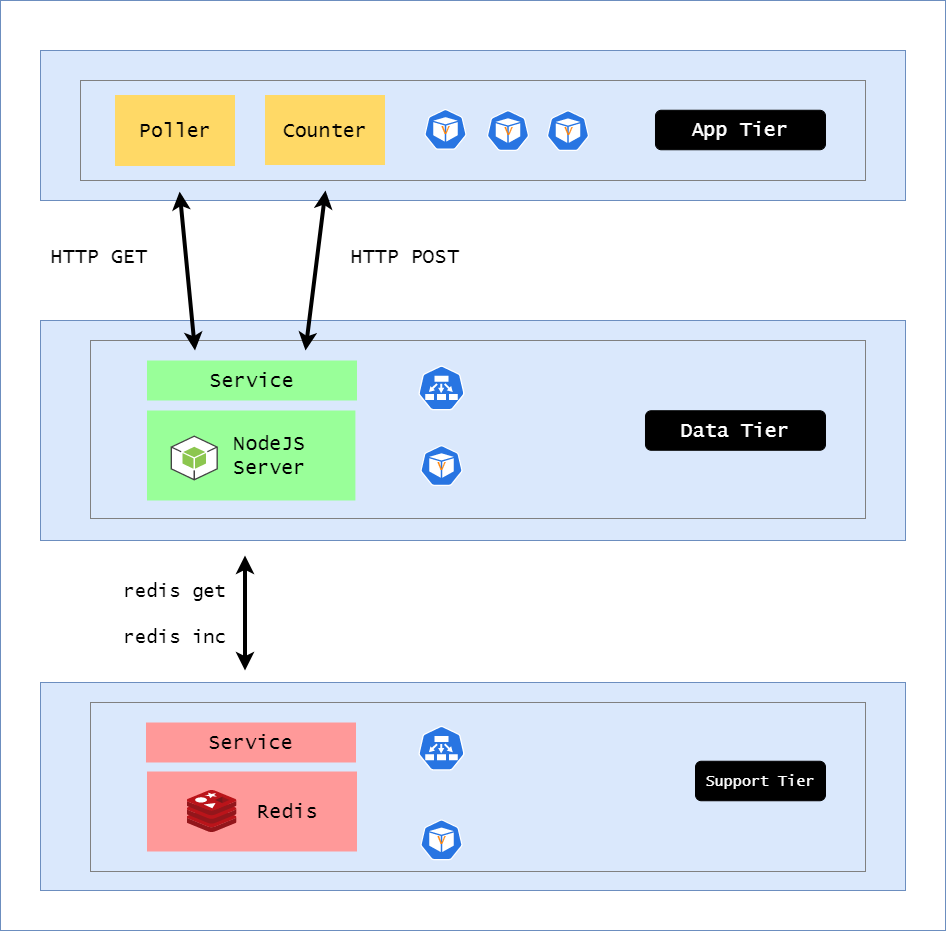
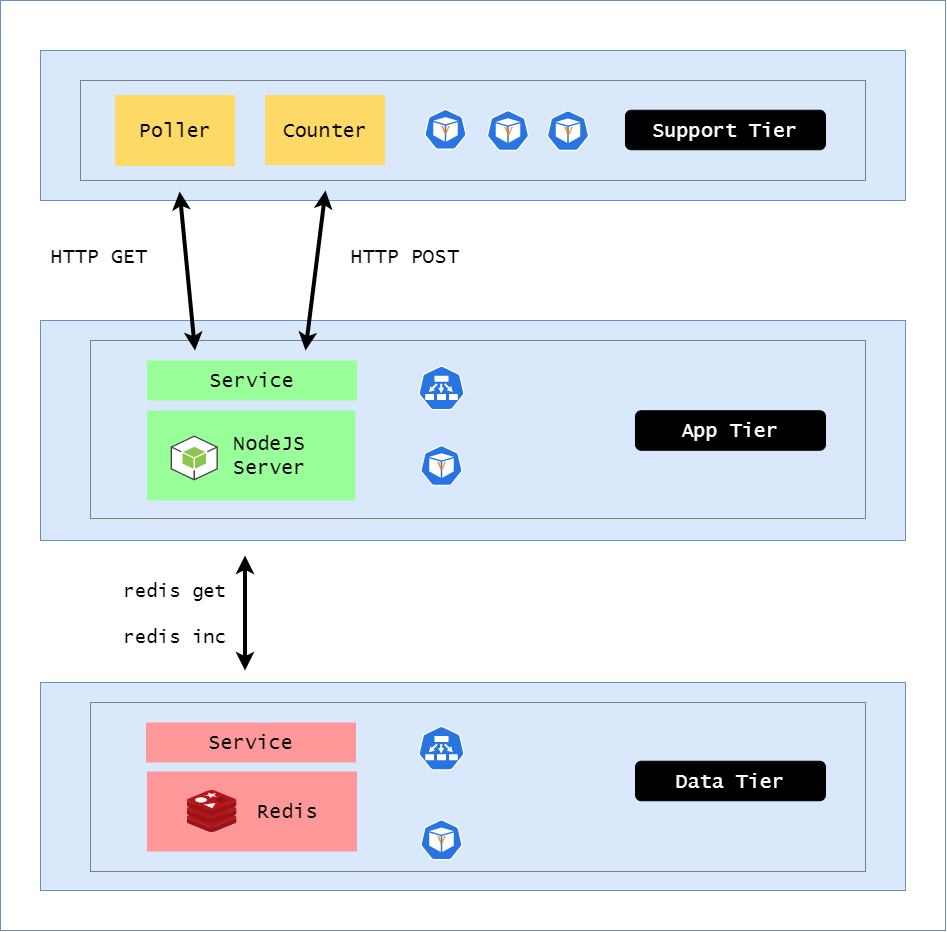
Updated diagram

diff --git a/lab41-Multi_Container_Pods/README.md b/lab41-Multi_Container_Pods/README.md
@@ -29,7 +29,7 @@ In this lab, we'll use a sample counter application that increments and prints a
 - **Support tier** - a poller that continuously makes GET requests and a counter that continuously makes POST requests
 
 <p align=center>
-<img src="../Images/lab41multicontainerpods.png">
+<img src="../Images/lab41multicontainerpods-2.png">
 </p>
 
 ## Launch a Simple EKS Cluster
